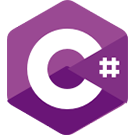
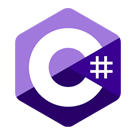
Add C++ badge and update C#

diff --git a/Alex-Rothwell/Alex-Rothwell.md b/Alex-Rothwell/Alex-Rothwell.md
@@ -11,6 +11,9 @@ quoteAuthor: "Martin Fowler"
 | ![](../badges/Developer-c-sharp.png)
 
 [[imgBadge]]
+| ![](../badges/Developer-c-plusplus.png)
+
+[[imgBadge]]
 | ![](../badges/Developer-dotnet-core.png)
 
 [[imgBadge]]
